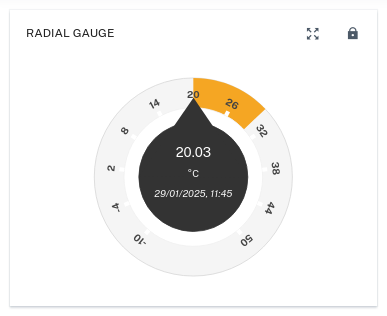
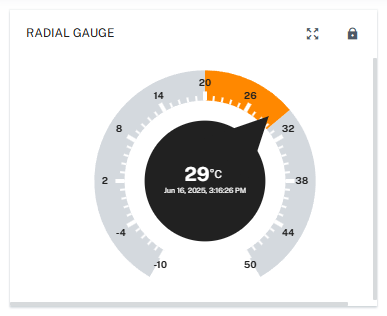
[MTM-63606] Updated docs with info for the new radial gauge. (#3317)
* MTM-63606 Updated docs with info for the new radial gauge.

* MTM-63606 Minor formatting change...

* Apply suggestions from code review

* Update content/cockpit/widgets-collection.md

* Update content/cockpit/widgets-collection.md

* Update content/cockpit/widgets-collection.md

* Update content/cockpit/widgets-collection.md

* Update content/cockpit/widgets-collection.md

* MTM-63606 Changed image.

---------

diff --git a/content/cockpit/widgets-collection.md b/content/cockpit/widgets-collection.md
@@ -369,11 +369,62 @@ You can add, edit, or remove links to customize the widget according to your nee
 
 ### Radial Gauge {#radial-gauge}
 
-The "Radial gauge" widget visualizes data points in form of a radial gauge.
+The "Radial gauge" widget visualizes data points in the form of a radial gauge, making it ideal for monitoring values like temperature, pressure, or performance metrics at a glance.
+
+#### Presets and customization
+
+You can choose from various preset styles such as "Default", "Pointer", "Progress bar", "Progress indicator", and "Grade rating". Each preset provides a distinct visual design.
 
 ![Radial gauge widget](/images/users-guide/cockpit/cockpit-widget-radial-gauge.png)
 
 You must enable at least one data point to create the "Radial gauge" widget.
+
+For full control, click **Show advanced options** to customize the gauge’s appearance and behavior.
+
+**Advanced options reference**
+
+| Category         | Property                                             | Description                                           |
+| ---------------- | ---------------------------------------------------- | ----------------------------------------------------- |
+| **General**      | `name`                                               | Name of the gauge preset                              |
+|                  | `radius`                                             | Radius of the gauge (for example, "90%")              |
+|                  | `center`                                             | Center position of the gauge (for example, `["50%", "50%"]`) |
+|                  | `startAngle`, `endAngle`                             | Start and end angles of the gauge arc                 |
+| **Split lines**  | `splitNumber`                                        | Number of segments in the gauge                       |
+|                  | `splitLineLength`, `splitLineLengthRatio`            | Length of split lines (absolute or ratio)             |
+|                  | `splitLineDistance`, `splitLineDistanceRatio`        | Distance of split lines from axis (absolute or ratio) |
+|                  | `splitLineColor`, `splitLineWidth`                   | Color and width of split lines                        |
+| **Ticks**        | `tickShow`                                           | Whether to show ticks                                 |
+|                  | `tickWidth`, `tickColor`                             | Width and color of ticks                              |
+|                  | `tickDistance`, `tickDistanceRatio`                  | Distance of ticks from center (absolute or ratio)     |
+|                  | `tickLength`, `tickLengthRatio`                      | Length of ticks (absolute or ratio)                   |
+| **Axis**         | `axisLabelDistance`, `axisLabelDistanceRatio`        | Distance of axis labels from center                   |
+|                  | `axisLabelColor`                                     | Color of axis labels                                  |
+|                  | `axisLabelFontSize`, `axisLabelFontSizeRatio`        | Font size of labels (absolute or ratio)               |
+|                  | `axisLabelFontSizeMin`, `axisLabelFontSizeMax`       | Minimum and maximum font size for labels              |
+|                  | `axisLineWidth`, `axisLineWidthRatio`                | Width of the axis line (absolute or ratio)            |
+| **Pointer**      | `showPointer`                                        | Whether to show the pointer                           |
+|                  | `pointerStyle`, `pointerColor`                       | Style and color of the pointer                        |
+|                  | `pointerWidth`, `pointerWidthRatio`                  | Width of pointer (absolute or ratio)                  |
+|                  | `pointerLength`, `pointerLenghtRatio`                | Length of pointer (absolute or ratio)                 |
+|                  | `pointerOffset`                                      | Offset of pointer from center                         |
+| **Progress bar** | `progressBar`                                        | Enable progress bar                                   |
+|                  | `progressBarWidth`                                   | Width of the progress bar                             |
+|                  | `progressBarRoundCap`                                | Rounded caps on progress bar ends                     |
+|                  | `progressBarColor`                                   | Color of the progress bar                             |
+|                  | `additionalGaugeColors`                              | Extra colors for segmented gauge bars                 |
+| **Typography**   | `measurementValueFontRatio`                          | Font size ratio of the measurement value              |
+|                  | `measurementValueFontMin`, `measurementValueFontMax` | Min and max font size for measurement value           |
+|                  | `measurementValueColor`                              | Color of the measurement value text                   |
+|                  | `unitFontSize`, `unitFontRatio`                      | Font size or ratio of the unit label                  |
+|                  | `unitFontMin`, `unitFontMax`                         | Min and max font size for the unit label              |
+|                  | `unitColor`                                          | Color of the unit label                               |
+|                  | `dateFontSize`, `dateFontRatio`                      | Font size or ratio of the timestamp                   |
+|                  | `dateFontMin`, `dateFontMax`                         | Min and max font size for the timestamp               |
+|                  | `dateColor`                                          | Color of the timestamp                                |
+| **Details**      | `showDetail`                                         | Show detailed information like value or markers       |
+|                  | `valueFontSize`                                      | Font size for the displayed value                     |
+|                  | `detailOffsetCenter`                                 | Offset of detail from center                          |
+|                  | `showMarkPoint`                                      | Show mark points on the gauge                         |
 
 ### Relay array control {#relay-array-control}
 
